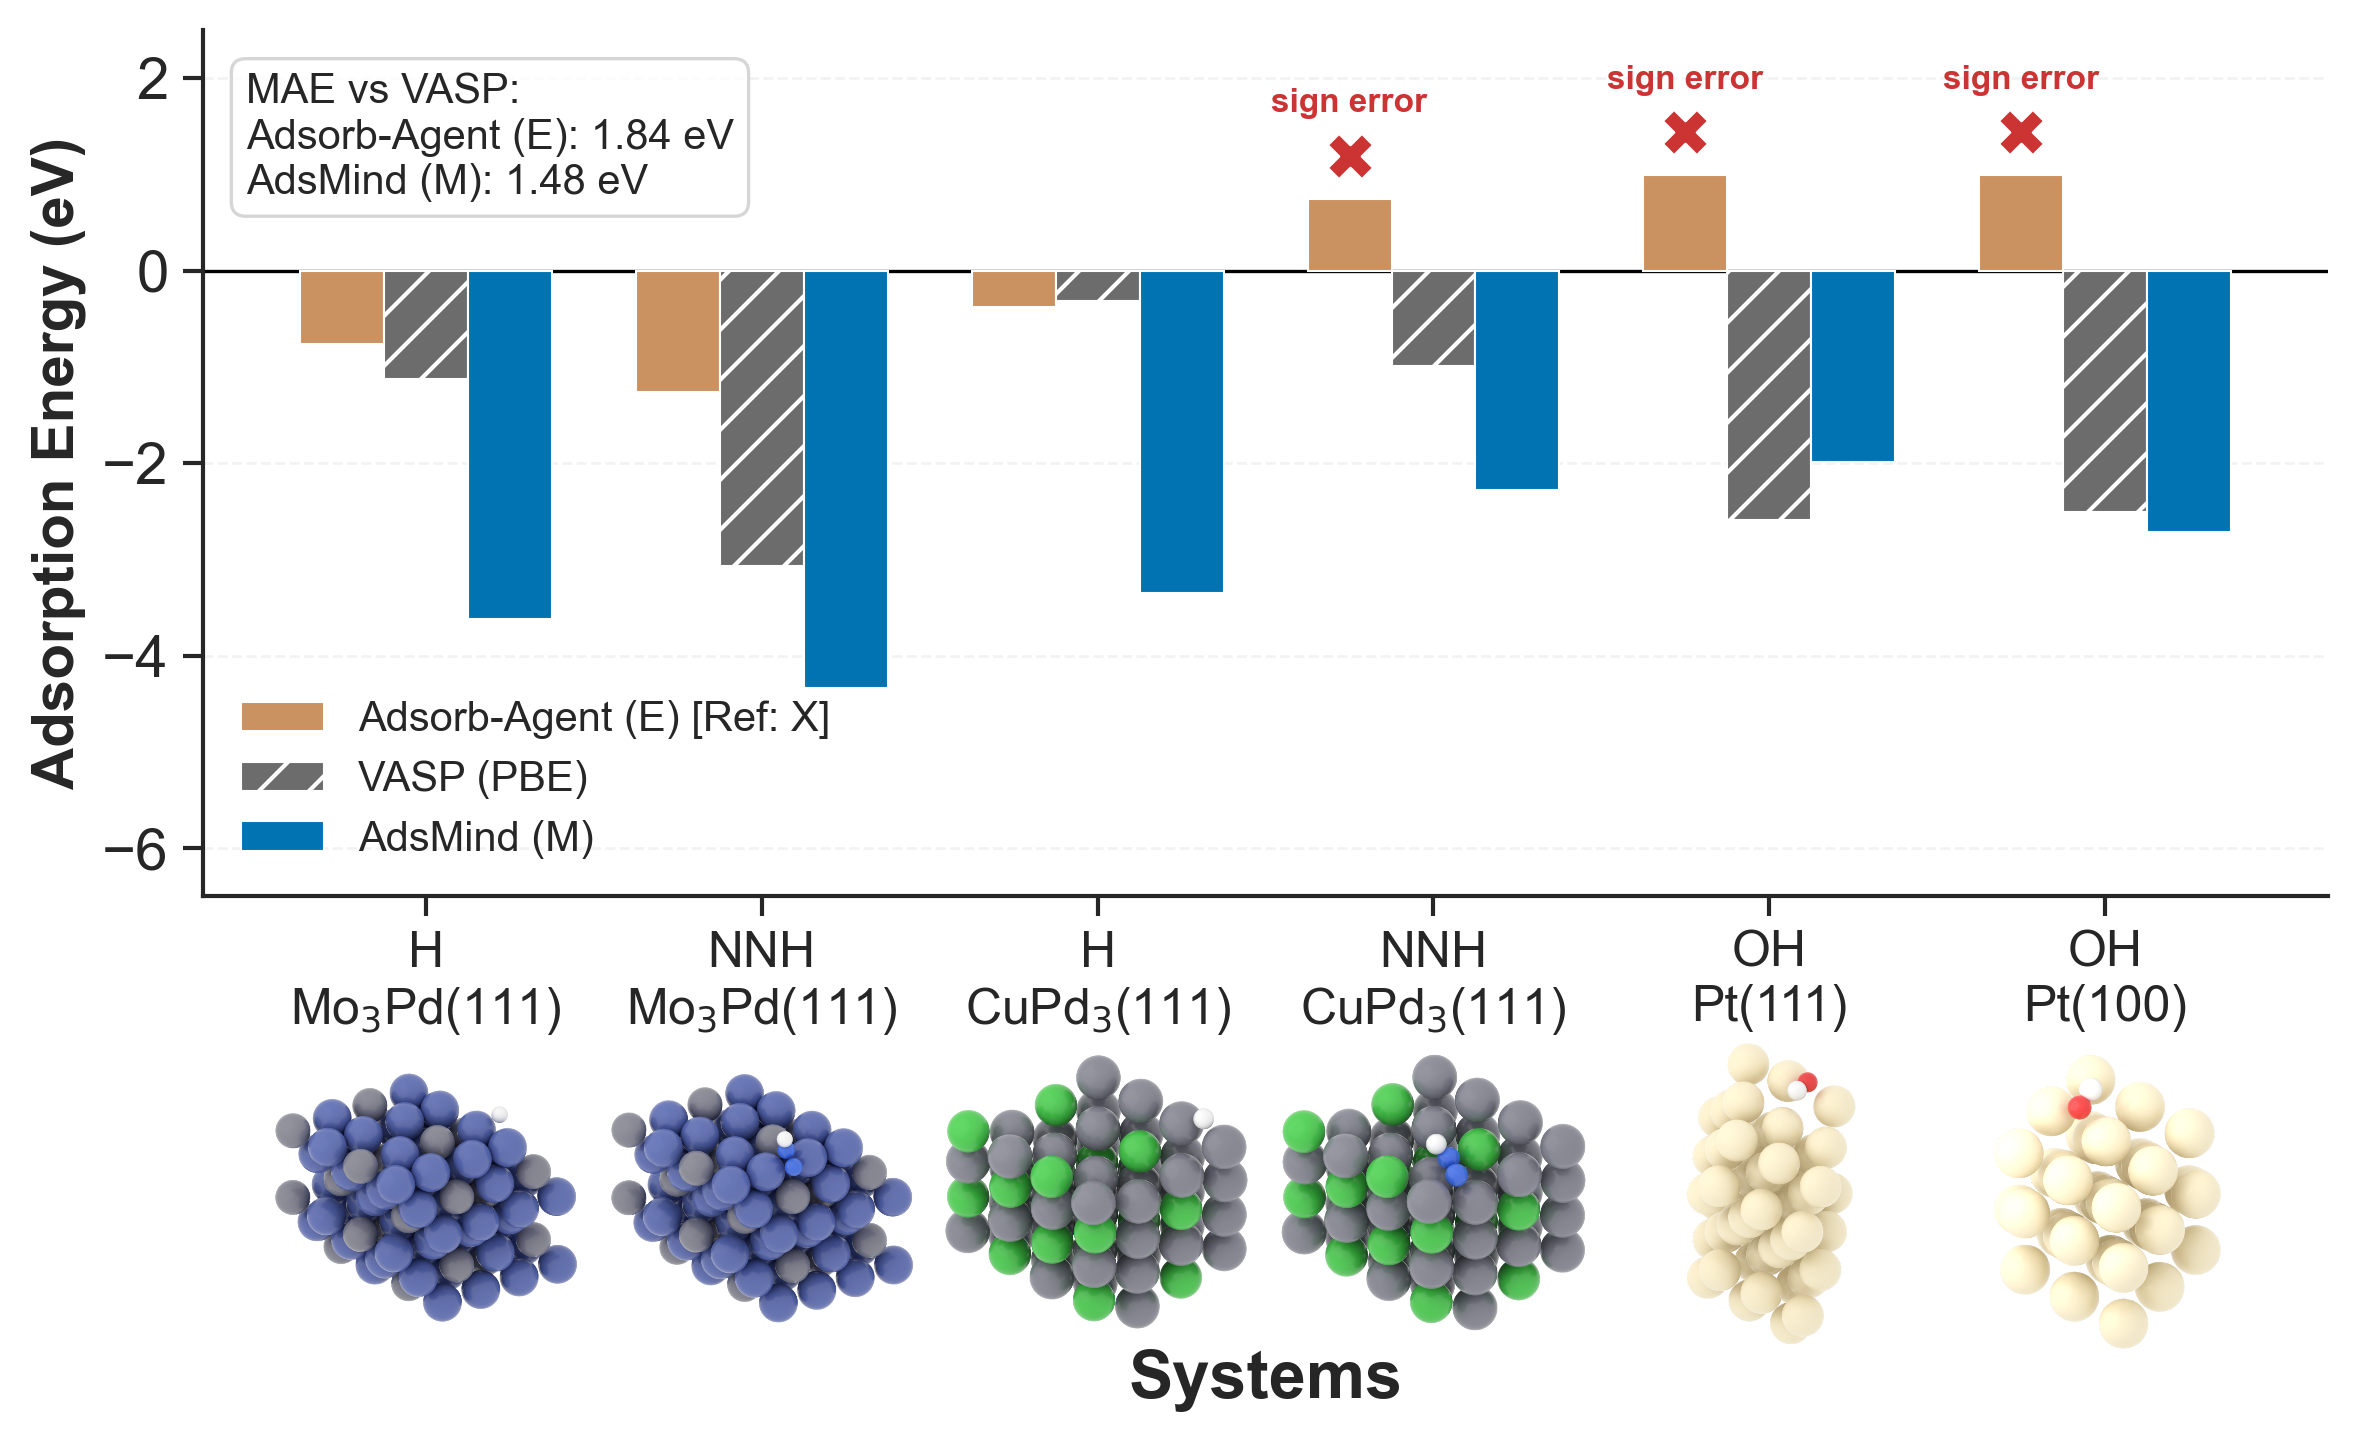
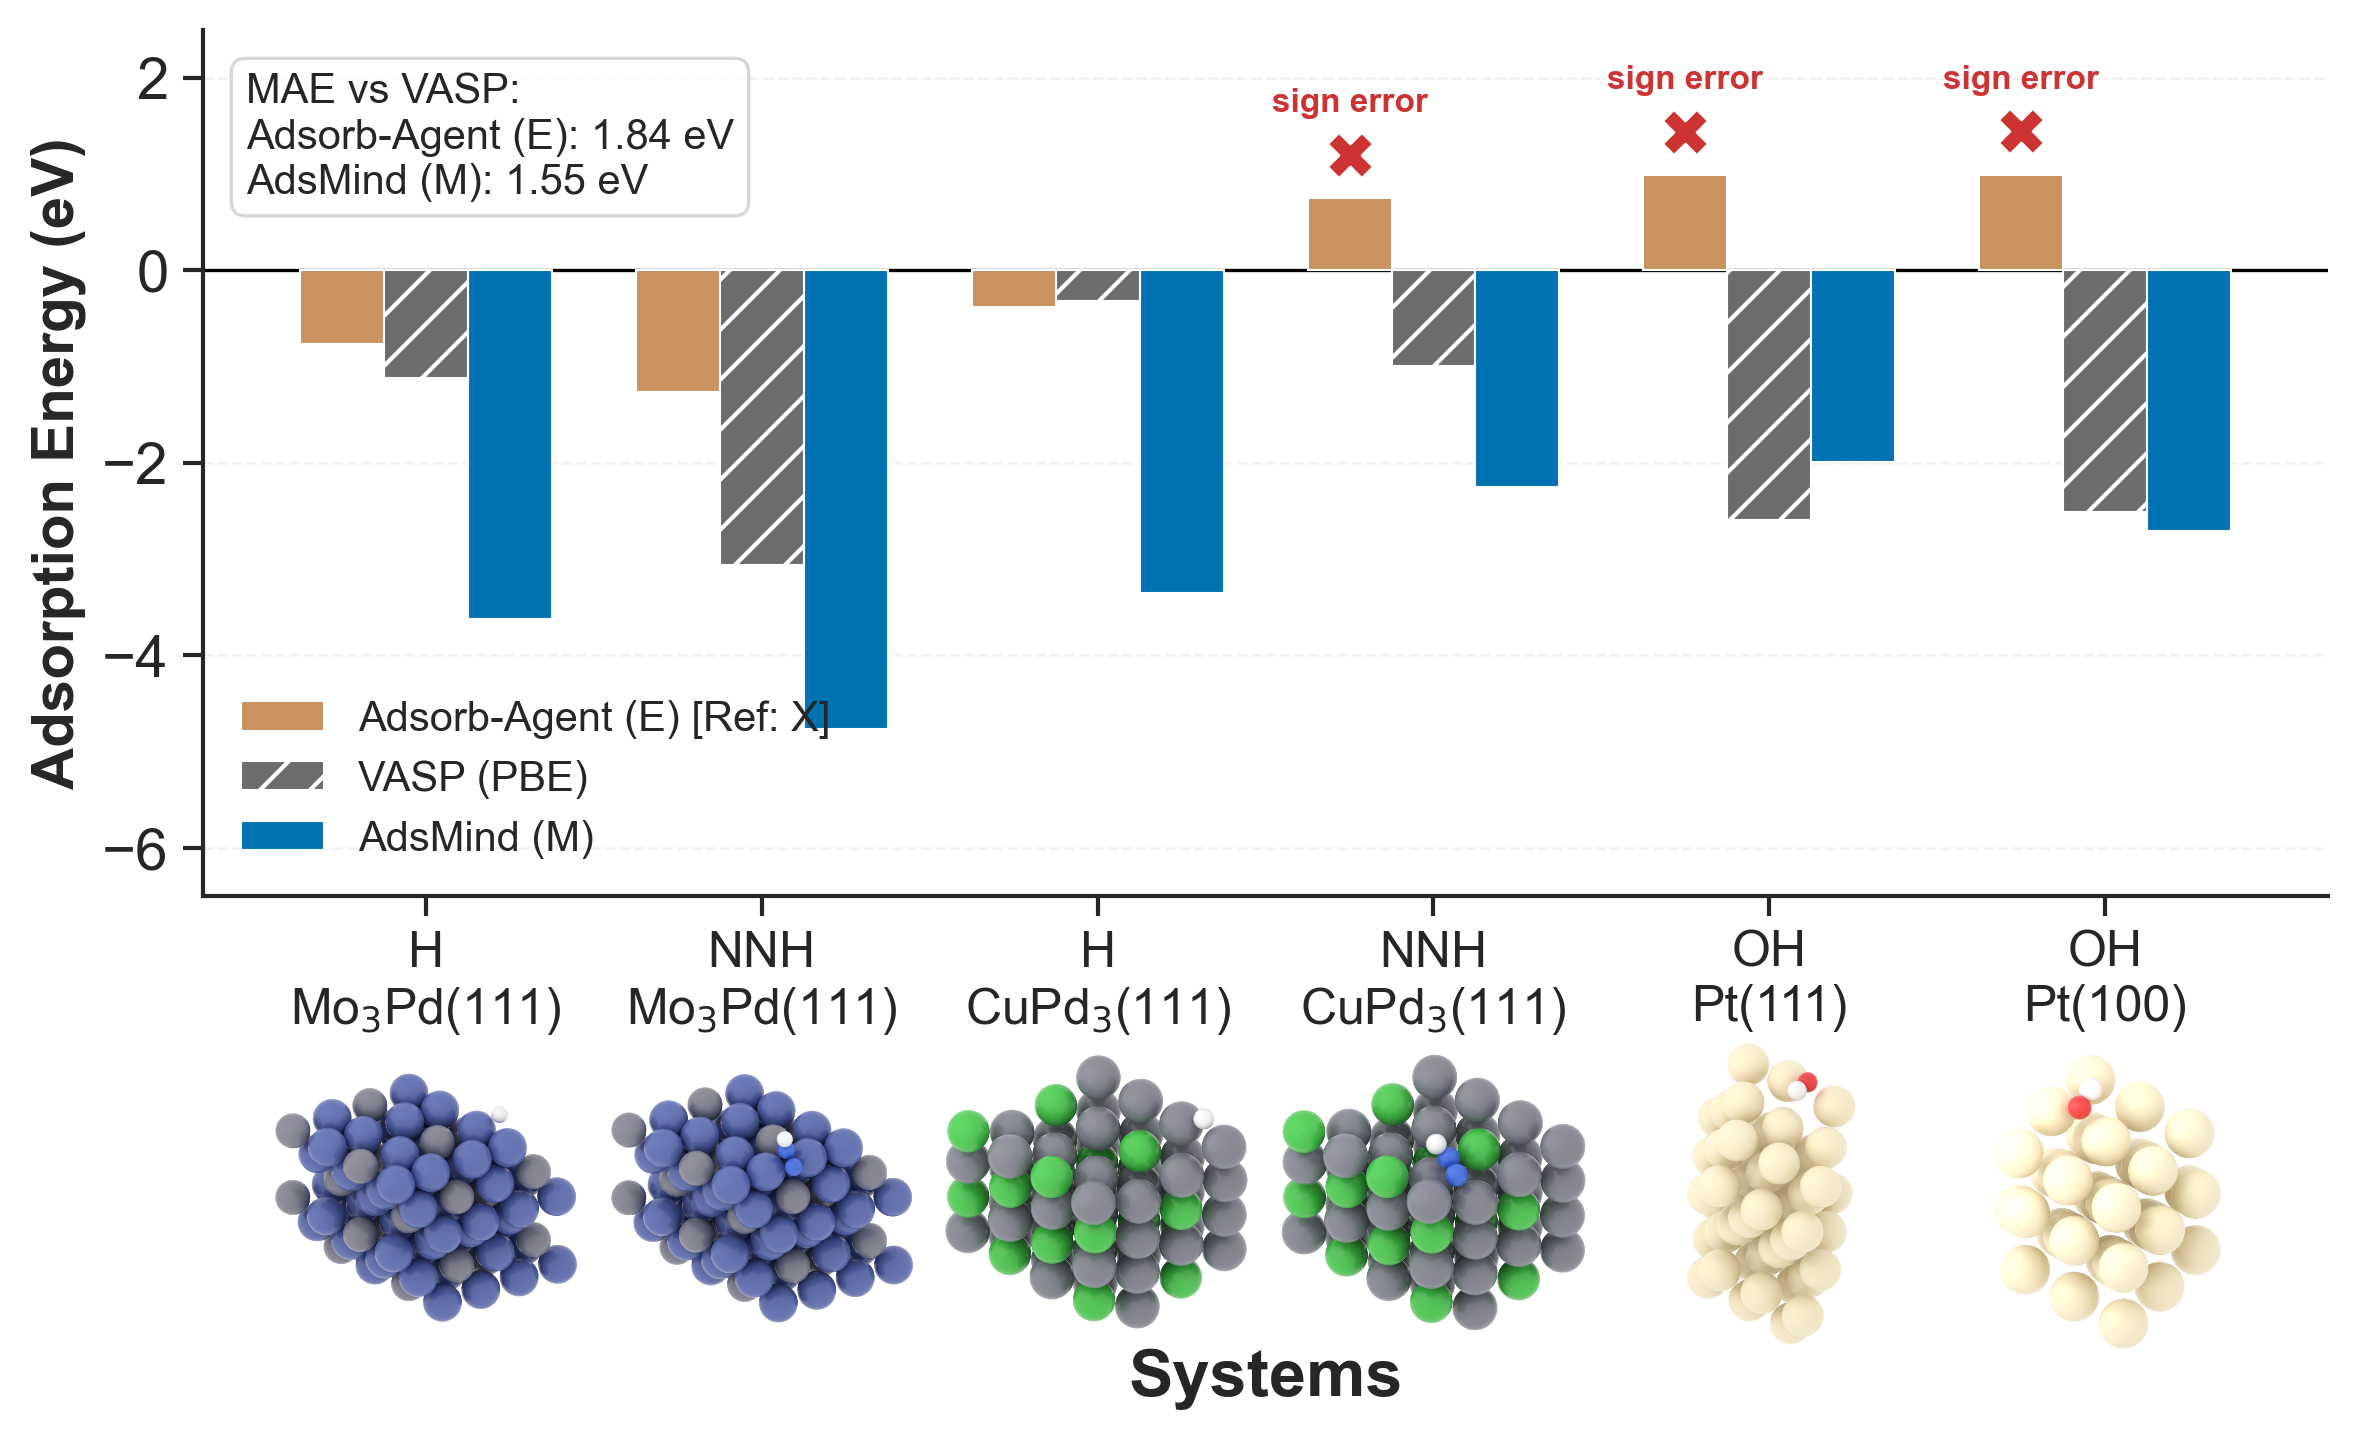
fix some bugs

diff --git a/overleaf/sections/3_Results.tex b/overleaf/sections/3_Results.tex
@@ -6,7 +6,6 @@ Mo$_3$Pd and CuPd$_3$ are both experimentally established catalysts for both hyd
 \begin{figure}[t]
     \centering
     \includegraphics[width=0.95\linewidth]{images/figure5_vasp_validation.png}
-    % TODO: regenerate images/figure5_vasp_validation.png from the GPT-5.4 Full raw AdsMind values used below; the current PNG was produced from an older mixed-value array.
     \caption{\textbf{DFT validation on six representative CMU20 systems.} Grouped bar chart comparing adsorption energies (eV) from Adsorb-Agent (EquiformerV2) results from Ref.~\citep{ock2026adsorbagent}, PBE, and AdsMind (MACE-MP-0 small, GPT-5.4 Full). AdsMind preserves the correct sign of adsorption energy across all six systems (MAE 1.55~eV); Adsorb-Agent exhibits qualitative sign errors on OH--Pt and NNH--CuPd$_3$ systems (MAE 1.84~eV).}
     \label{fig:vasp_validation}
 \end{figure}